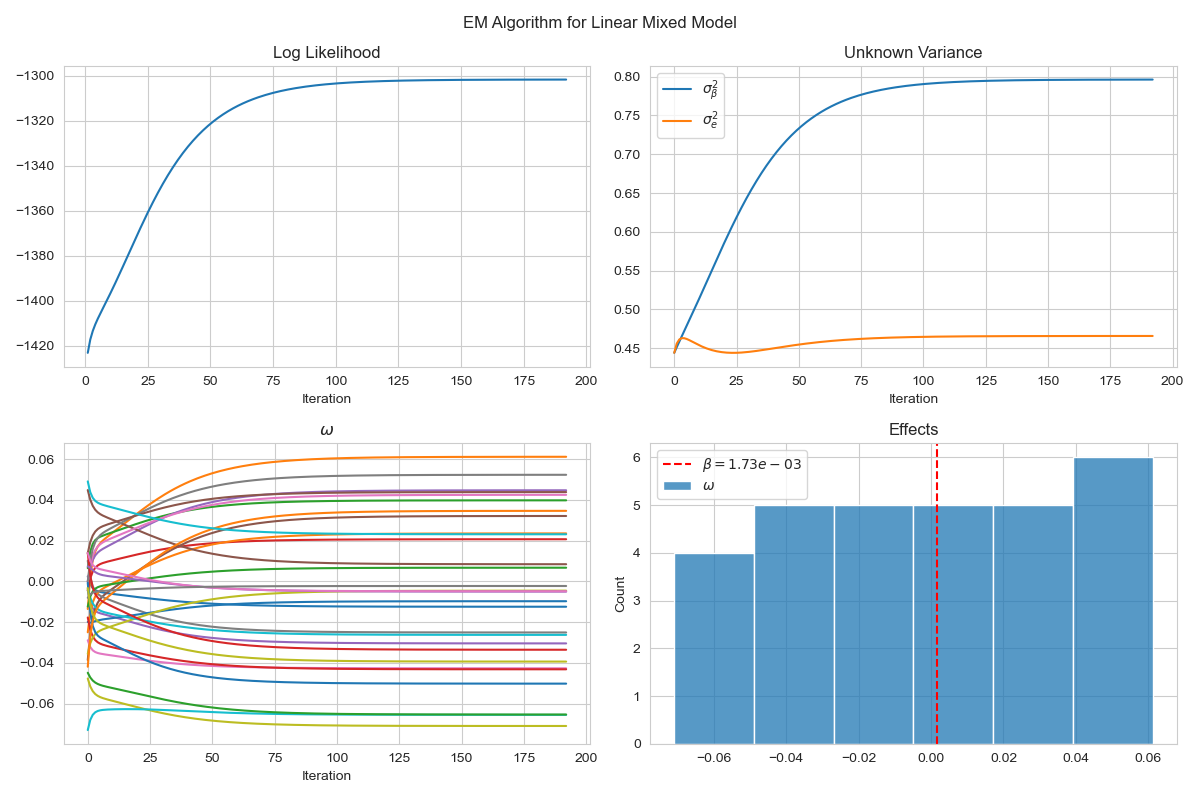
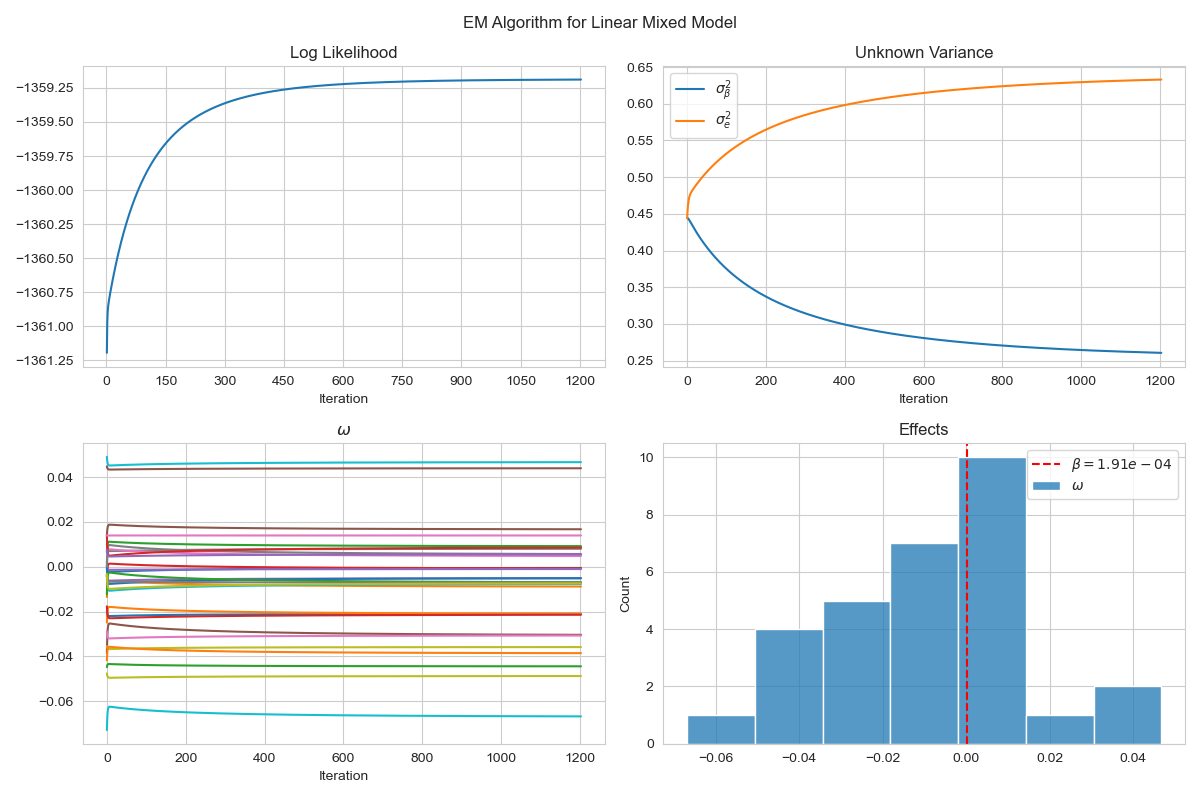
EM run perfectly, remember to modified all the relative docs

diff --git a/lmm_em.py b/lmm_em.py
@@ -8,13 +8,14 @@ import time
 sns.set_style("whitegrid")
 
 
-def lmm_em(y, X, Z, tol=1e-3, max_iter=10, verbose=True):
+def lmm_em(y, X, Z, mfvi=False, tol=1e-6, max_iter=10, verbose=True):
     """
     Input:
     y: n x 1, response
     X: n x p, random effect
     Z: n x c, fixed effect
-    tol: float, tolerance for convergence, default 1e-3
+    mfvi: bool, mean field variational inference in E step, default False
+    tol: float, tolerance for convergence, default 1e-6
     max_iter: int, maximum number of iterations, default 10
     verbose: bool, print information, default True
 
@@ -91,7 +92,8 @@ def lmm_em(y, X, Z, tol=1e-3, max_iter=10, verbose=True):
     # Initialize parameters
     mu = np.random.randn(p, 1)
     omega = np.linalg.inv(Z.T @ Z) @ Z.T @ y
-    sigma_beta2 = np.var(y - Z @ omega) / 2
+    y_z_omega = y - Z @ omega
+    sigma_beta2 = np.var(y_z_omega) / 2
     sigma_e2 = sigma_beta2
 
     # For accelerate calculation
@@ -101,33 +103,28 @@ def lmm_em(y, X, Z, tol=1e-3, max_iter=10, verbose=True):
 
     # eigenvalue decomposition of XXT, needed in n < p & l
     eigvals_xxt, eigvecs_xxt = np.linalg.eigh(XXT)  # l, ~Q
-    eigvals_xxt, eigvecs_xxt = eigvals_xxt.real, eigvecs_xxt.real
 
     if n_geq_p:
         # eigenvalue decomposition of XTX, needed in n >= p
         eigvals_xtx, eigvecs_xtx = np.linalg.eigh(XTX)  # Q
-        eigvals_xtx, eigvecs_xtx = eigvals_xtx.real, eigvecs_xtx.real
 
         # n >= p
-        def cal_Gamma():
+        def cal_mu():
             return (
                 eigvecs_xtx
-                @ np.diag(1 / (eigvals_xtx / sigma_e2 + 1 / sigma_beta2))
-                @ eigvecs_xtx.T
+                @ (eigvecs_xtx.T @ (X.T @ y_z_omega / d_.reshape(-1, 1)))
+                / sigma_e2
             )
 
-        def cal_mu():
-            return Gamma @ X.T @ (y - Z @ omega) / sigma_e2
-
-        def cal_sigma_beta2(mu):
+        def cal_sigma_beta2():
             return (
                 np.sum(sigma_e2 * sigma_beta2 / (sigma_e2 + sigma_beta2 * eigvals_xtx))
                 + np.linalg.norm(mu) ** 2
             ) / p
 
-        def cal_sigma_e2(mu):
+        def cal_sigma_e2():
             return (
-                np.linalg.norm(y - Z @ omega) ** 2
+                np.linalg.norm(y_z_omega) ** 2
                 + np.sum(
                     eigvals_xtx
                     * sigma_beta2
@@ -135,59 +132,47 @@ def lmm_em(y, X, Z, tol=1e-3, max_iter=10, verbose=True):
                     / (eigvals_xtx * sigma_beta2 + sigma_e2)
                 )
                 + np.linalg.norm(X @ mu) ** 2
-                - 2 * ((y - Z @ omega).T @ X @ mu)[0, 0]
+                - 2 * (y_z_omega.T @ X @ mu)[0, 0]
             ) / n
 
     else:
         # n < p
-        def cal_Gamma():
-            # return (
-            #     eigvecs_xxt
-            #     @ np.diag(1 / (eigvals_xxt / sigma_e2 + 1 / sigma_beta2))
-            #     @ eigvecs_xxt.T
-            # )
+        def cal_mu():
             return (
-                eigvecs_xxt.T
-                @ np.diag(1 / (eigvals_xxt / sigma_e2 + 1 / sigma_beta2))
-                @ eigvecs_xxt
+                X.T
+                @ (eigvecs_xxt @ (eigvecs_xxt.T @ y_z_omega / d_.reshape(-1, 1)))
+                / sigma_e2
             )
 
-        def cal_mu():
-            return X.T @ Gamma @ (y - Z @ omega) / sigma_e2
-
-        def cal_sigma_beta2(mu):
+        def cal_sigma_beta2():
             return (
-                np.sum(sigma_e2 * sigma_beta2 / (sigma_e2 + sigma_beta2 * eigvals_xxt))
-                + np.linalg.norm(mu) ** 2
-                + (p - n) * sigma_beta2
+                np.sum(1 / d_) + np.linalg.norm(mu) ** 2 + (p - n) * sigma_beta2
             ) / p
 
-        def cal_sigma_e2(mu):
+        def cal_sigma_e2():
             return (
-                np.linalg.norm(y - Z @ omega) ** 2
-                + np.sum(
-                    eigvals_xxt
-                    * sigma_beta2
-                    * sigma_e2
-                    / (eigvals_xxt * sigma_beta2 + sigma_e2)
-                )
-                + np.linalg.norm(X @ mu) ** 2
-                - 2 * ((y - Z @ omega).T @ X @ mu)[0, 0]
+                np.linalg.norm(y_z_omega - X @ mu) ** 2 + np.sum(eigvals_xxt / d_)
             ) / n
 
     # log-likelihood
+    likelihood_const = -n / 2 * np.log(2 * np.pi)
+
     def cal_likelihood():
-        likelihood_const = -n / 2 * np.log(2 * np.pi)
         return (
             likelihood_const
-            - np.log(np.sum(sigma_beta2 * eigvals_xxt + sigma_e2)) / 2
-            - (y - Z @ omega).T
+            - np.sum(np.log(sigma_beta2 * eigvals_xxt + sigma_e2)) / 2
+            - y_z_omega.T
             @ eigvecs_xxt
             @ np.diag(1 / (sigma_beta2 * eigvals_xxt + sigma_e2))
             @ eigvecs_xxt.T
-            @ (y - Z @ omega)
+            @ y_z_omega
             / 2
         )
+
+    if mfvi:
+
+        def cal_mu():
+            return 0
 
     # Record parameters in each iteration
     max_iter += 1
@@ -208,13 +193,18 @@ def lmm_em(y, X, Z, tol=1e-3, max_iter=10, verbose=True):
     convergence = False
     for iter in range(1, max_iter):
         # E step
-        Gamma = cal_Gamma()
+        d_ = (
+            eigvals_xxt / sigma_e2 + 1 / sigma_beta2
+            if not n_geq_p
+            else eigvals_xtx / sigma_e2 + 1 / sigma_beta2
+        )
         mu = cal_mu()
 
         # M step
         omega = ZTZinvZT @ (y - X @ mu)
-        sigma_beta2 = cal_sigma_beta2(mu)
-        sigma_e2 = cal_sigma_e2(mu)
+        y_z_omega = y - Z @ omega
+        sigma_beta2 = cal_sigma_beta2()
+        sigma_e2 = cal_sigma_e2()
 
         # Calculate likelihood
         likelihood_list[iter] = cal_likelihood()
@@ -235,7 +225,7 @@ def lmm_em(y, X, Z, tol=1e-3, max_iter=10, verbose=True):
                 "iter: {}, log-likelihood: {:.4e}".format(iter, likelihood_list[iter])
             )
             print("beta: {:.4e}".format(np.sum(mu**2)))
-            print("Gamma: {:.4e}".format(np.sum(Gamma)))
+            # print("Gamma: {:.4e}".format(np.sum(Gamma)))
             print("sigma_beta^2: {:.4e}".format(sigma_beta2))
             print("sigma_e^2: {:.4e}".format(sigma_e2))
             print("--------------------------------------")
@@ -328,7 +318,7 @@ if __name__ == "__main__":
         sigma_beta2_list,
         sigma_e2_list,
         beta_post_mean,
-    ) = lmm_em(y, X, Z, max_iter=500)
+    ) = lmm_em(y, X, Z, mfvi=True, tol=1e-5, max_iter=2000)
     end_time = time.time()
     print(
         "Run time: %d min %.2f s"

diff --git a/lmm_em.md b/lmm_em.md
@@ -179,11 +179,9 @@ $$\begin{equation}
 However, we can not calculate the $\log |\mathbf{\Sigma}|$ and $\mathbf{\Sigma}^{-1}$ in likelihood directly since they would cause numerical overflow[^2]. Instead, we use the eigenvalue decomposition of $\mathbf{X}\mathbf{X}^T$ to calculate the log determinant of $\mathbf{\Sigma}$[^3]. Let $\mathbf{X}\mathbf{X}^T = \tilde{\mathbf{Q}} \tilde{\mathbf{\Lambda}} \tilde{\mathbf{Q}}^T$, where $\tilde{\mathbf{Q}}$ is an orthogonal matrix and $\tilde{\mathbf{\Lambda}}= \text{diag} \{ \tilde{\lambda}_1, \dots, \tilde{\lambda}_n\}$ is a diagonal matrix with the eigenvalues of $\mathbf{X}\mathbf{X}^T$ on the diagonal. Then we have
 $$\begin{equation}
 \begin{split}
-\log |\Sigma| &= \log |\sigma_\beta^2 \mathbf{X}\mathbf{X}^T + \sigma_e^2 \mathbf{I}_n|\\
-&= \sum_{i=1}^n \log (\sigma_\beta^2 \tilde{\lambda}_i + \sigma_e^2)\\
-\Sigma^{-1} &= \left(\sigma_\beta^2 \mathbf{X}\mathbf{X}^T + \sigma_e^2 \mathbf{I}_n\right)^{-1}\\
-&= \left(\sigma_\beta^2 \tilde{\mathbf{Q}} \tilde{\mathbf{\Lambda}} \tilde{\mathbf{Q}}^T + \sigma_e^2 \mathbf{I}_n\right)^{-1}\\
-&= \tilde{\mathbf{Q}} \left(\sigma_\beta^2 \tilde{\mathbf{\Lambda}} + \sigma_e^2 \mathbf{I}_n\right)^{-1} \tilde{\mathbf{Q}}^T
+\Sigma &= \tilde{\mathbf{Q}} \left(\sigma_\beta^2 \tilde{\mathbf{\Lambda}} + \sigma_e^2 \mathbf{I}_n\right) \tilde{\mathbf{Q}}^T\\
+\log |\Sigma| &= \sum_{i=1}^n \log (\sigma_\beta^2 \tilde{\lambda}_i + \sigma_e^2)\\
+\Sigma^{-1} &= \tilde{\mathbf{Q}} \left(\sigma_\beta^2 \tilde{\mathbf{\Lambda}} + \sigma_e^2 \mathbf{I}_n\right)^{-1} \tilde{\mathbf{Q}}^T
 \end{split}\end{equation}$$
 
 where $\left(\sigma_\beta^2 \tilde{\mathbf{\Lambda}} + \sigma_e^2 \mathbf{I}_n\right)^{-1}$ is a diagonal matrix. The inverse of a diagonal matrix is the reciprocal of the diagonal elements.
